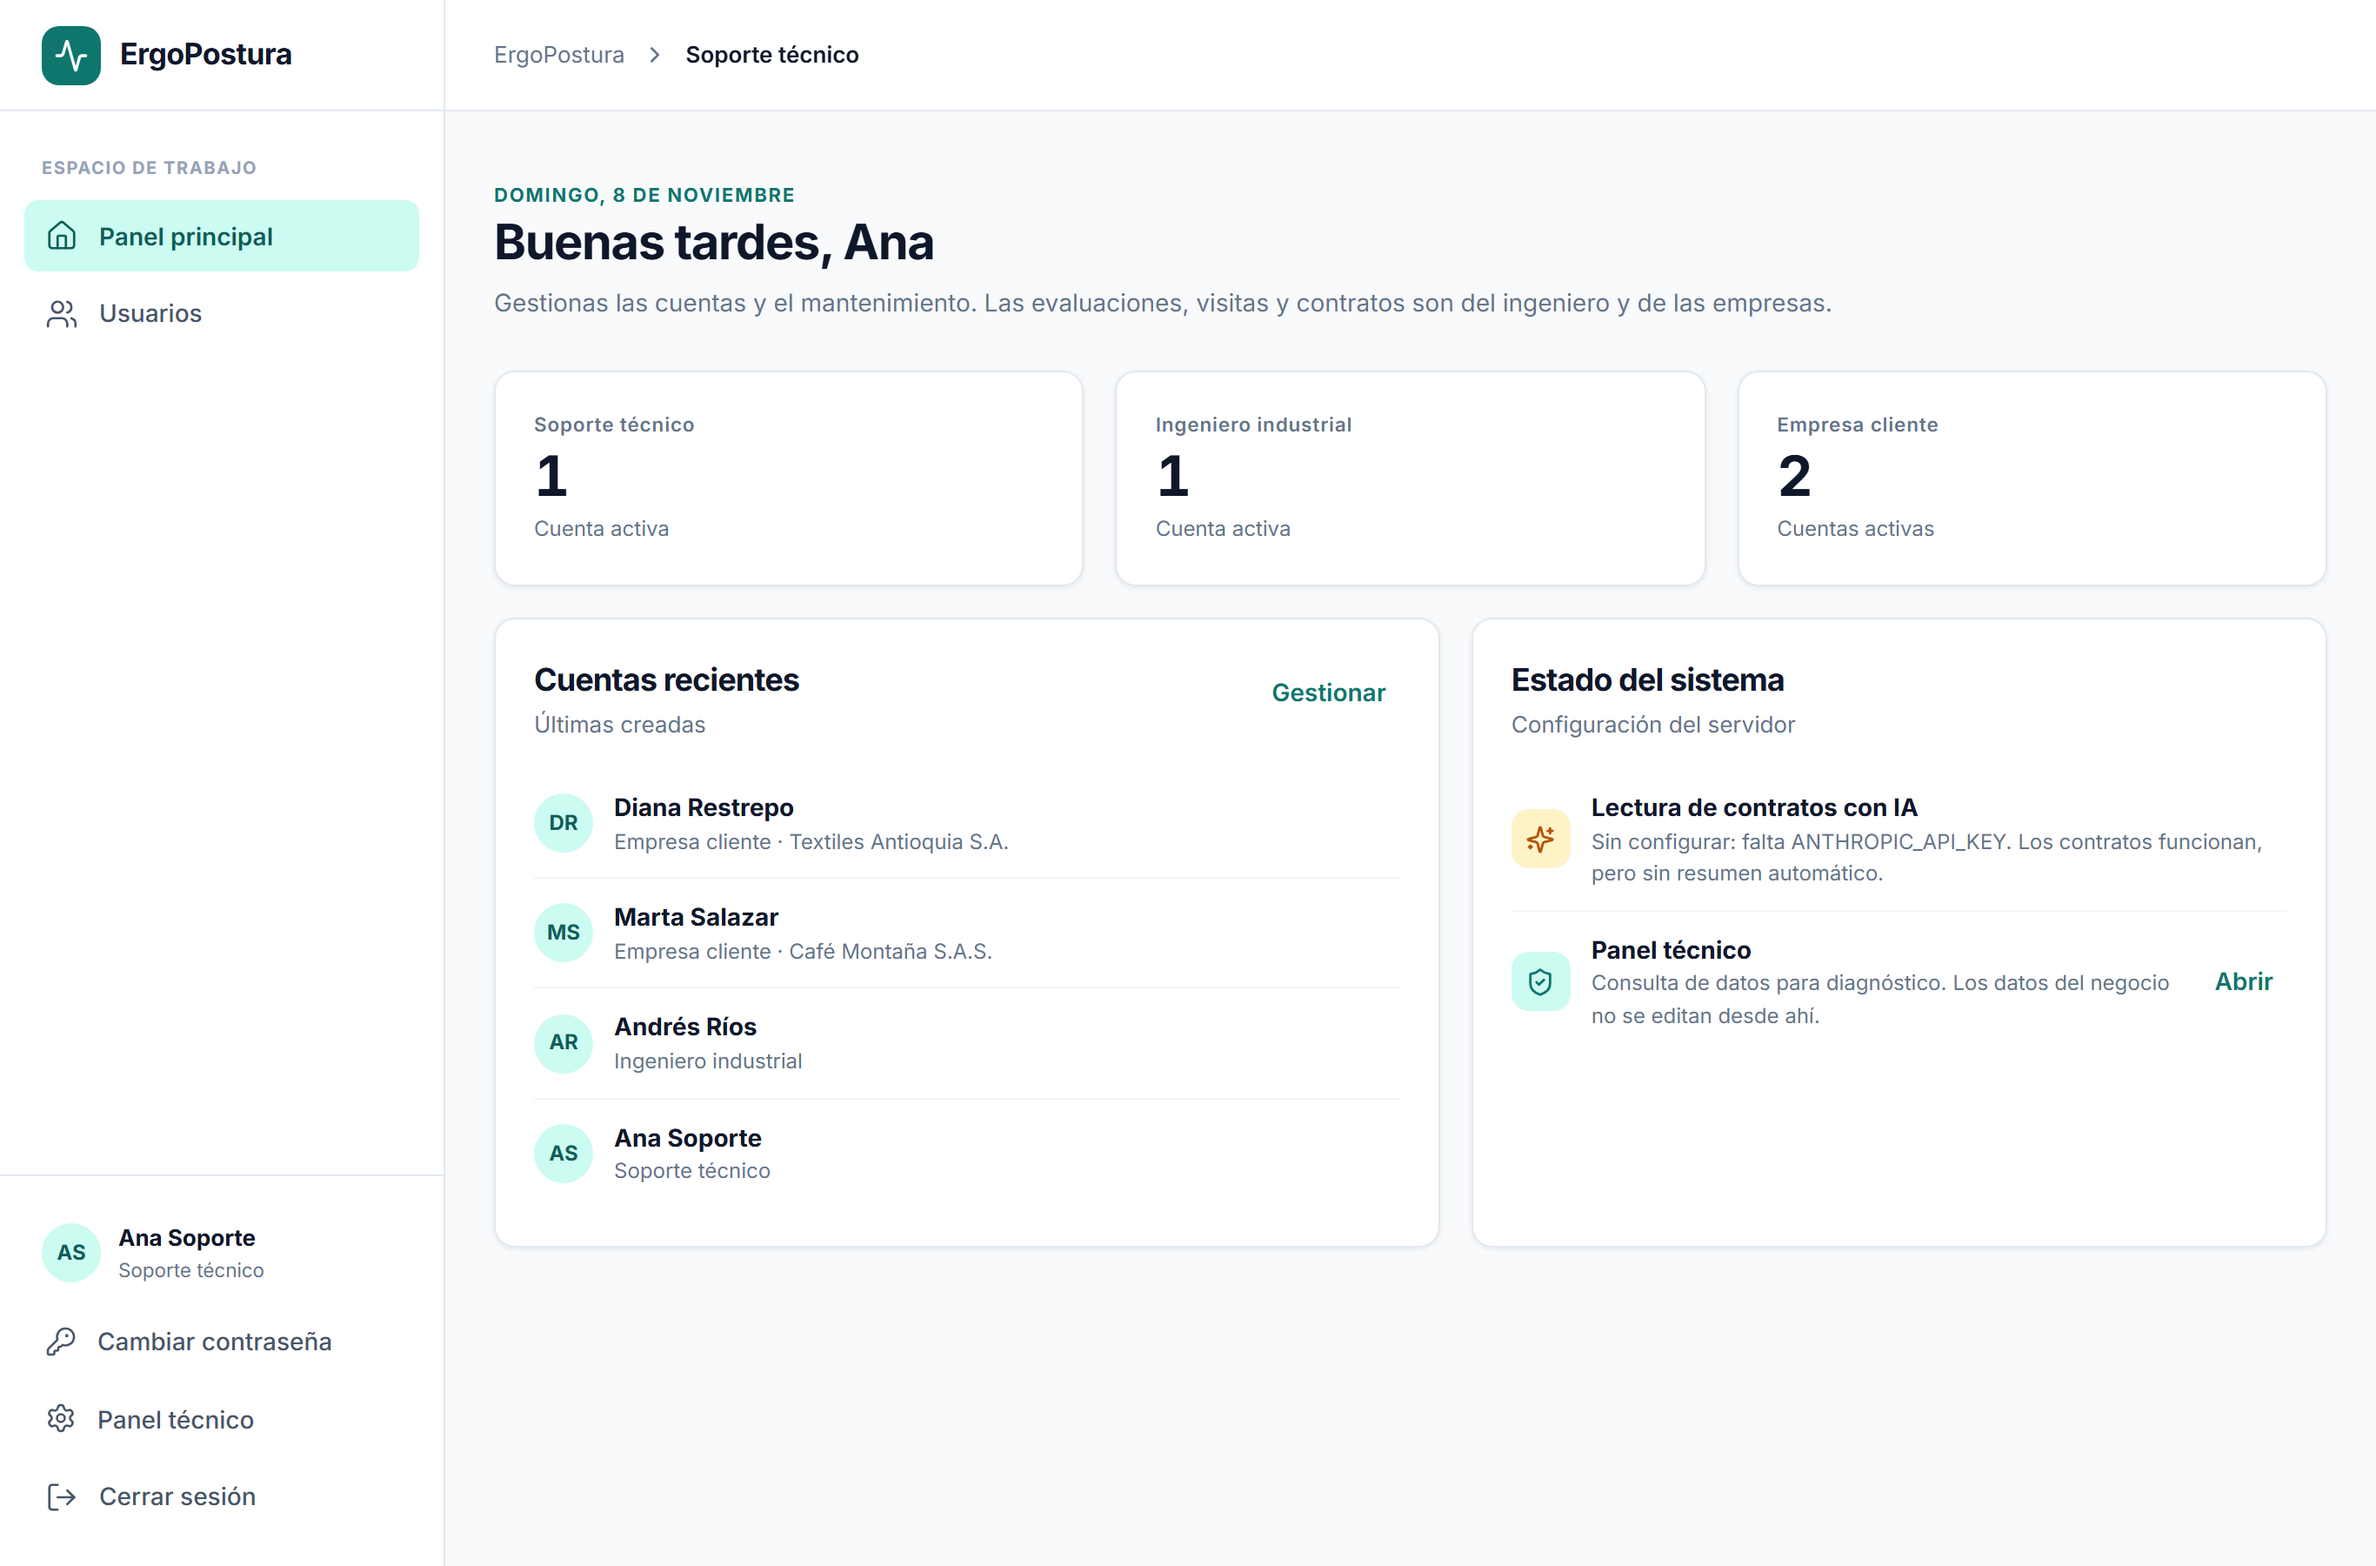
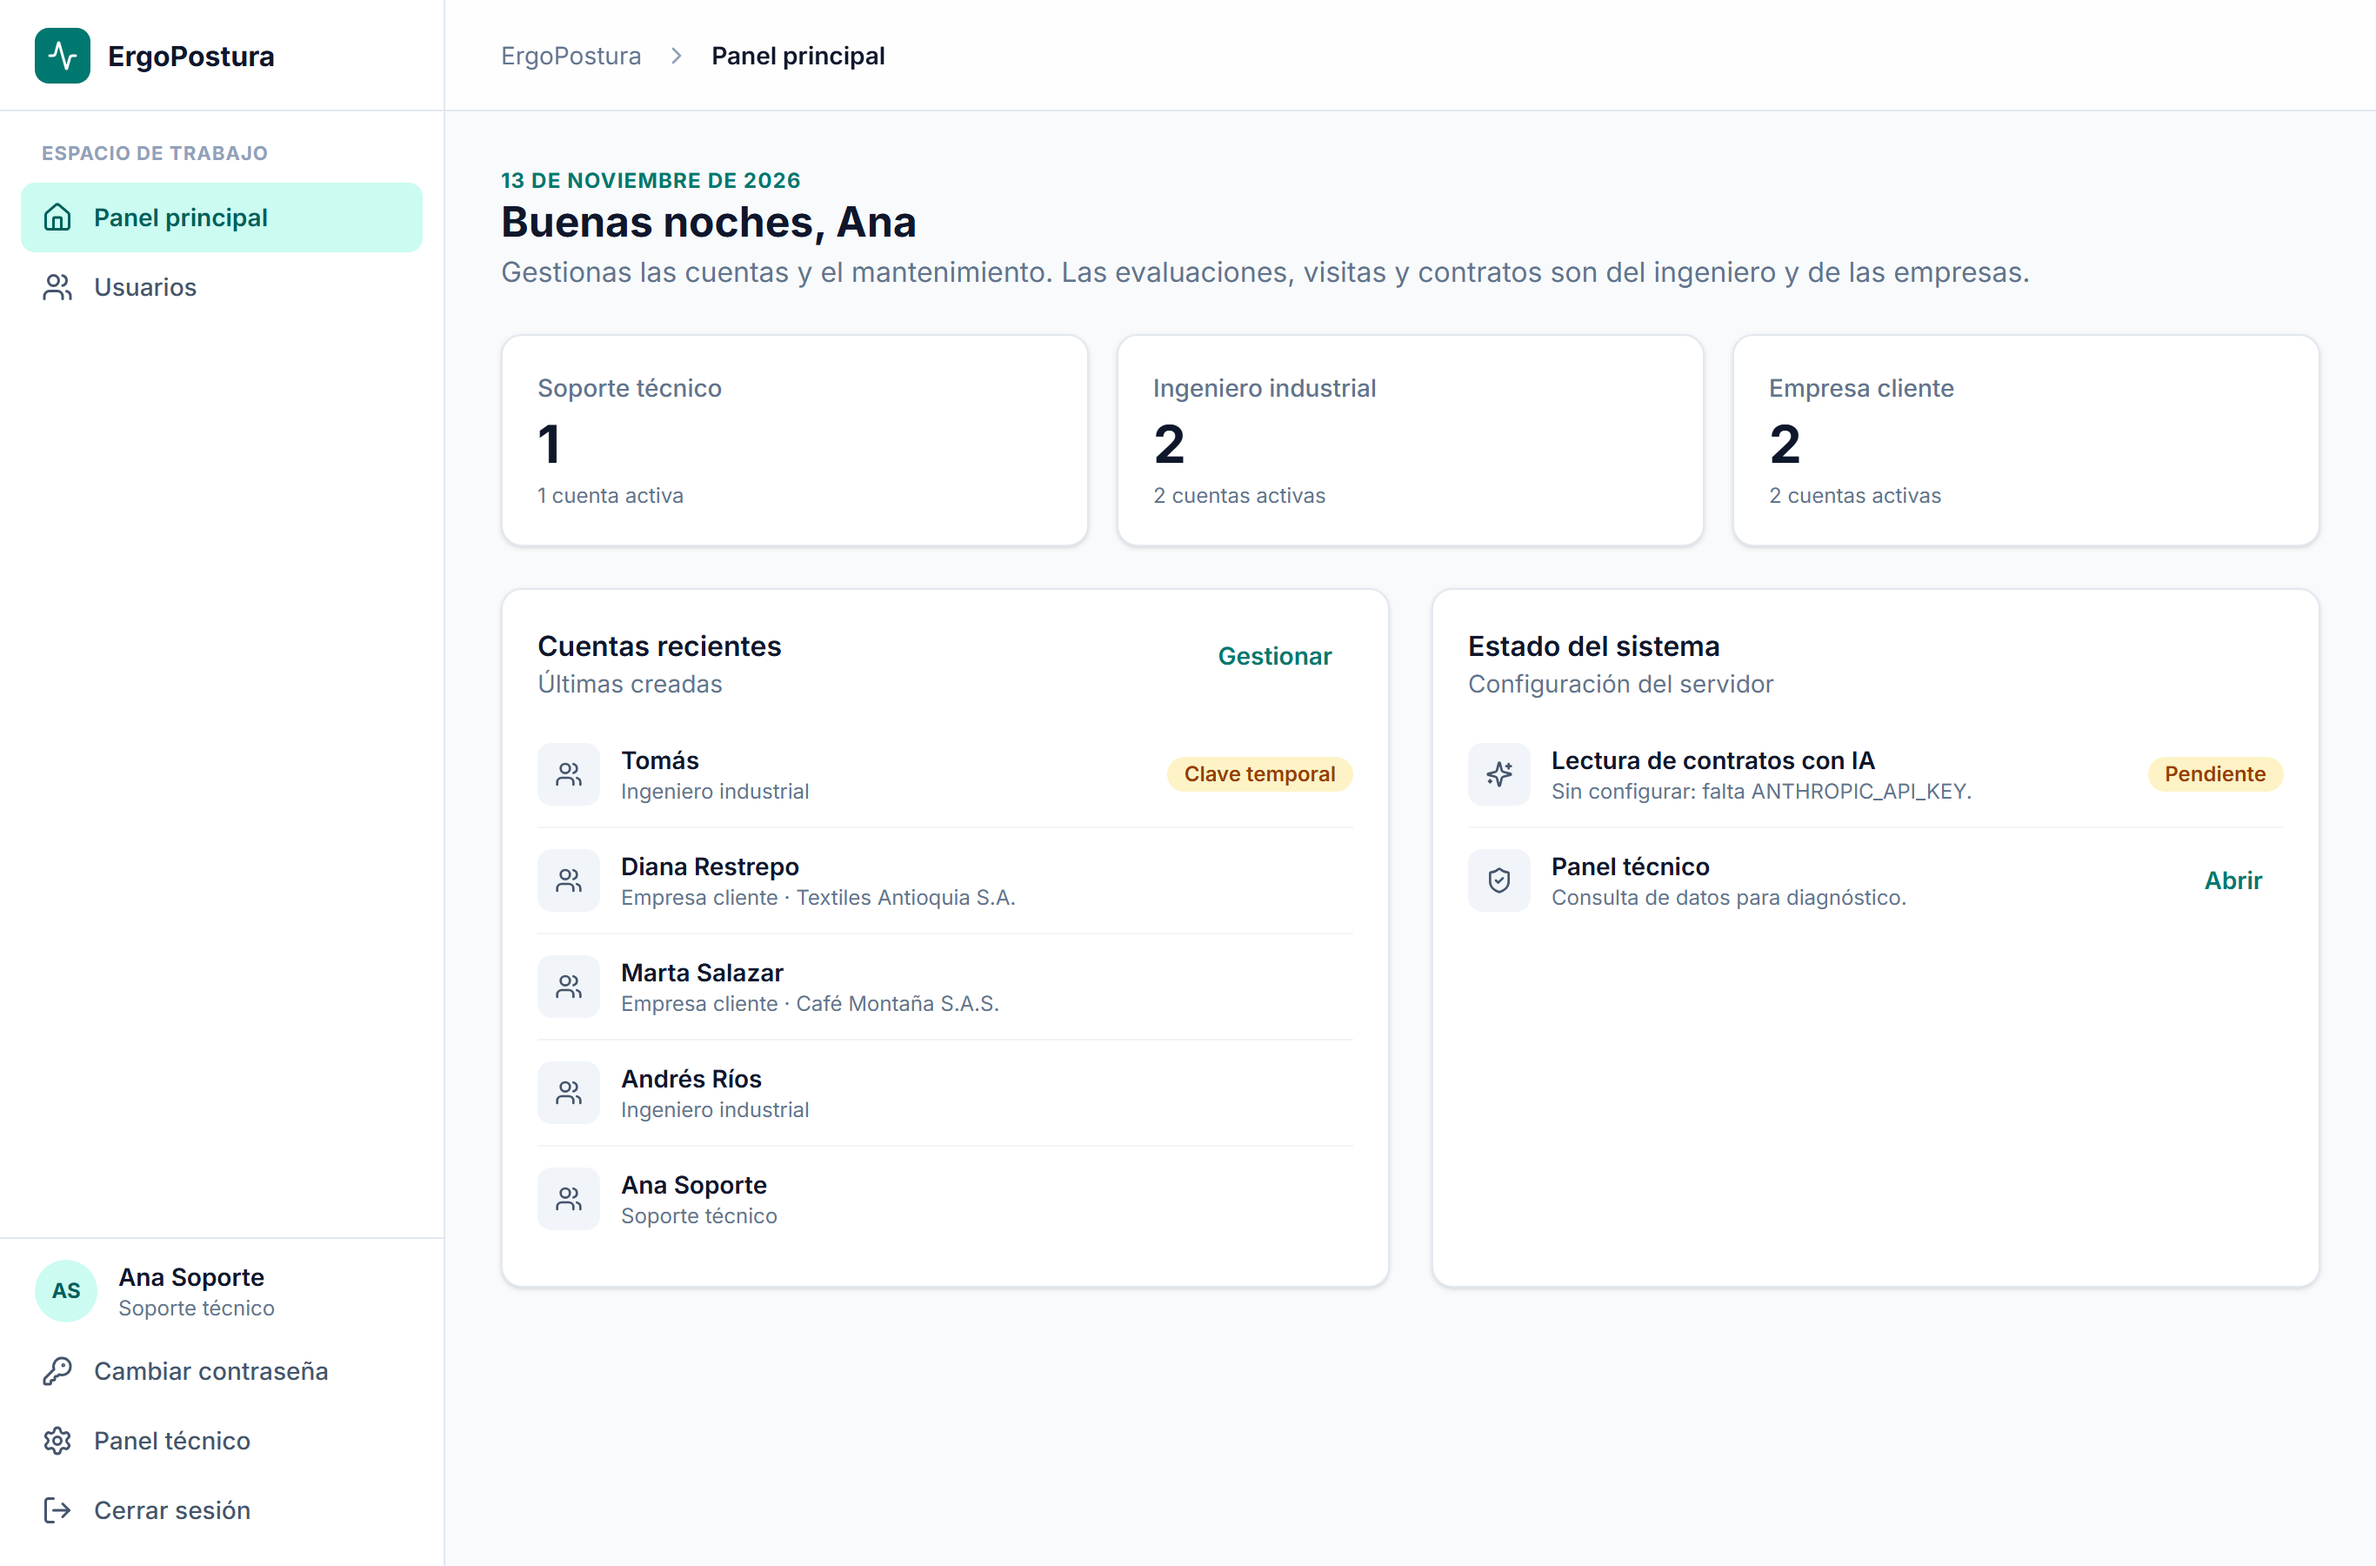
Actualiza los pantallazos de docs/vistas con las pantallas React

diff --git a/README.md b/README.md
@@ -91,7 +91,7 @@ Con `docker compose up` corriendo, crea una conexión con host `127.0.0.1`, puer
 - [docs/diagrama-navegacion.png](docs/diagrama-navegacion.png): pantallas y navegación por rol, con el código del mockup de cada pantalla.
 - [docs/mockups/](docs/mockups/): mockups M01 a M22 de las pantallas.
 - [docs/bpmn-as-is.png](docs/bpmn-as-is.png) y [docs/bpmn-to-be.png](docs/bpmn-to-be.png): proceso actual y proceso propuesto en BPMN.
-- [docs/vistas/](docs/vistas/): pantallazos de las vistas de cada rol, con datos de demostración.
+- [docs/vistas/](docs/vistas/): pantallazos de las pantallas React de cada rol, con datos de demostración.
 
 ## Comandos útiles
 
